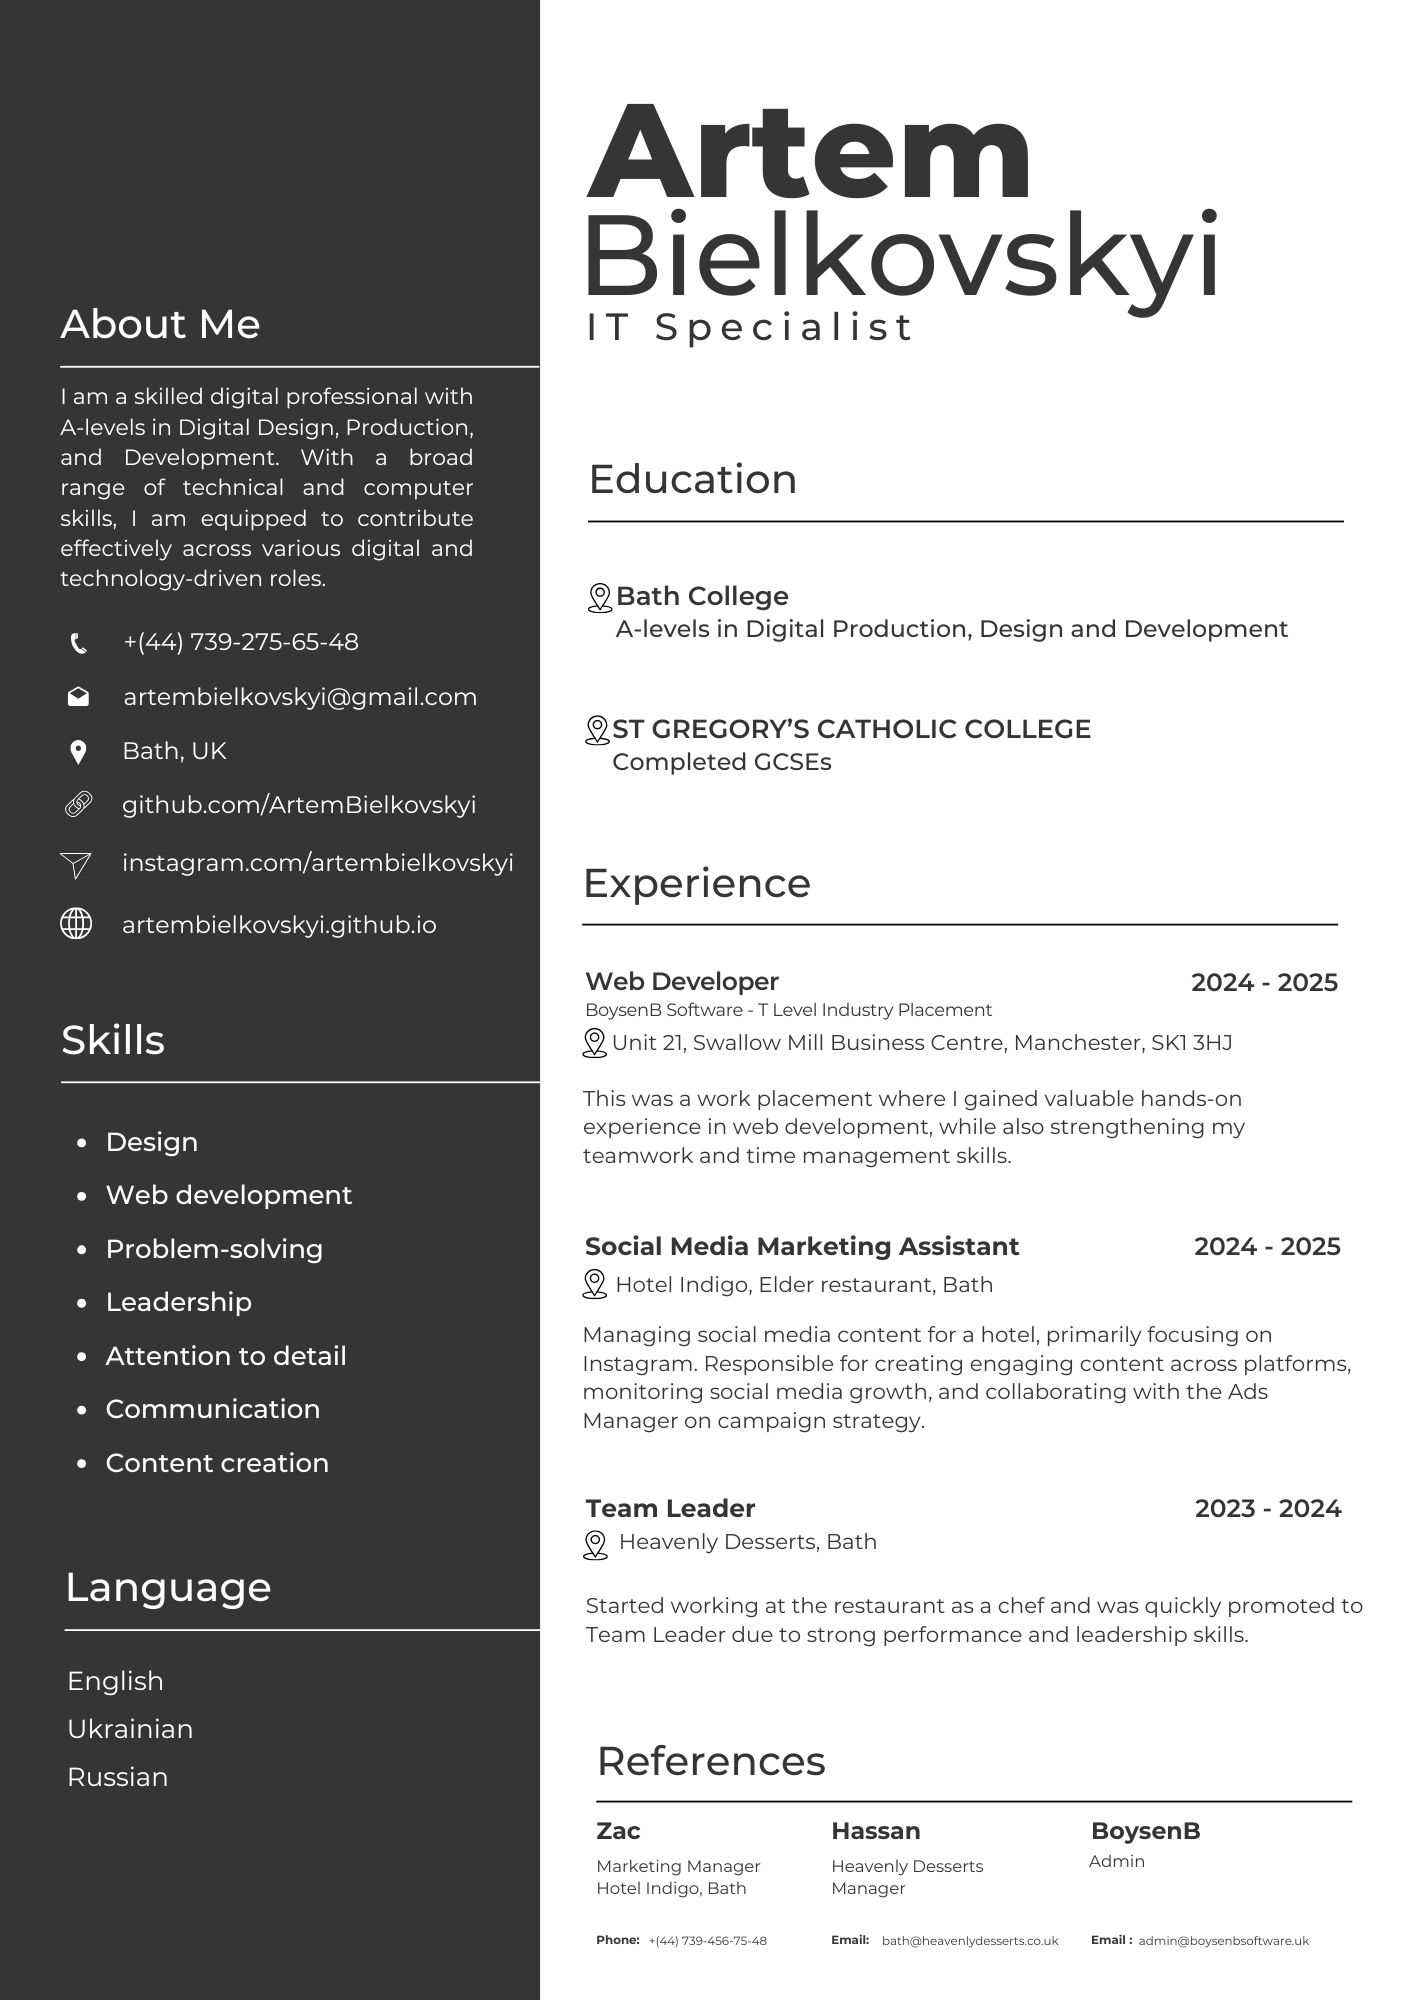
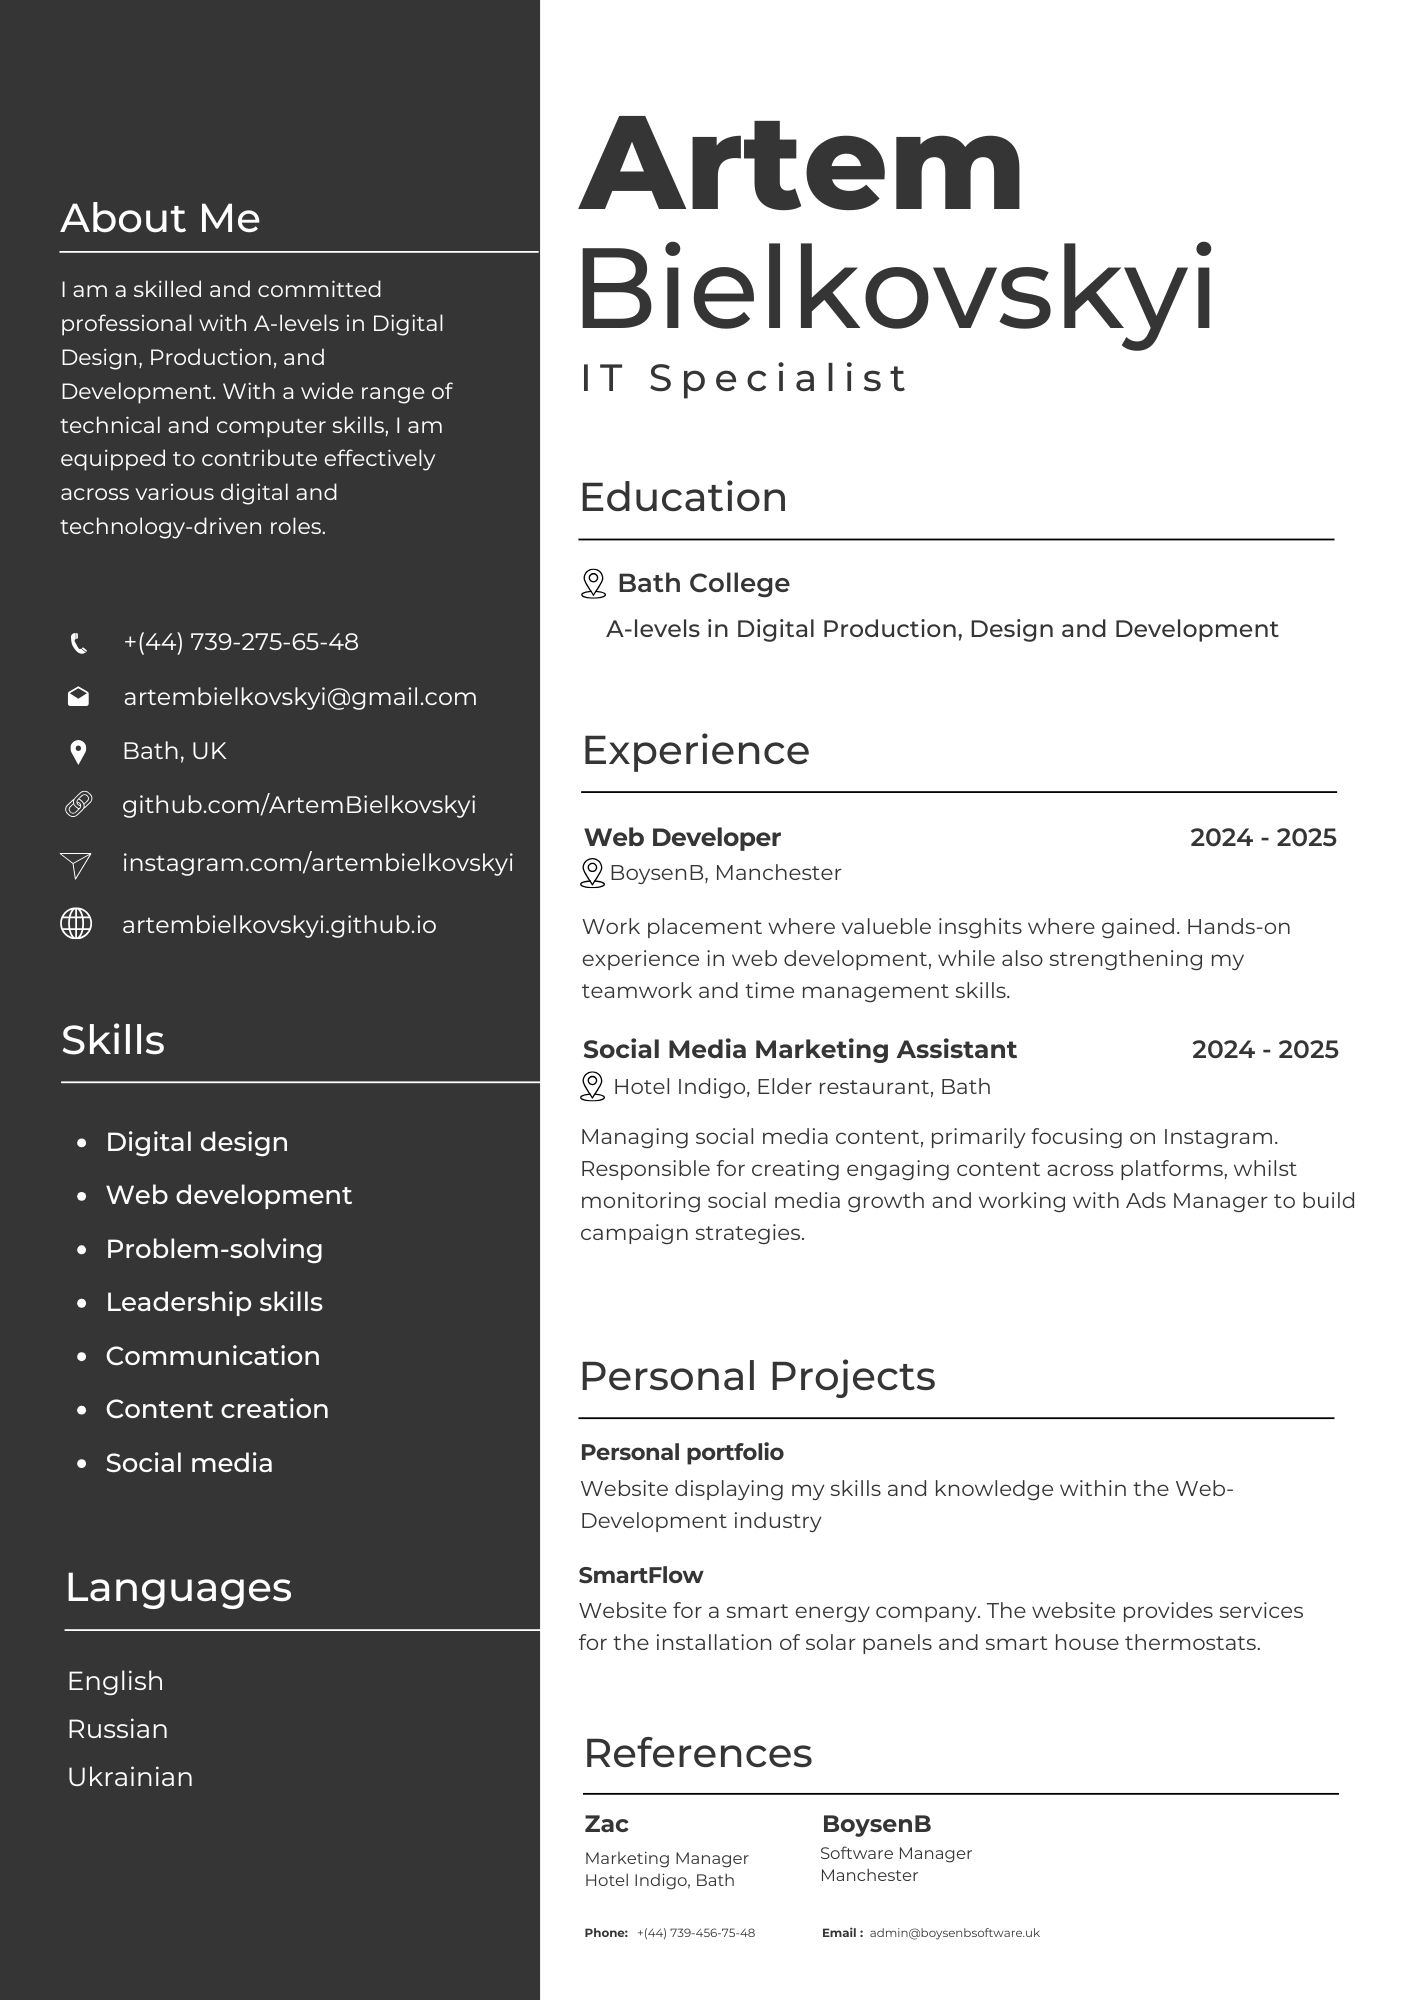
Slight adjustments1.5

diff --git a/index.html b/index.html
@@ -40,12 +40,13 @@
             <div class="section section2" data-anchor="about">
                 <img src="img/me1Blured.png" alt="code" class="AboutMeImage">
                 <h2 class="TextOnSlides AboutMe">About me</h2>
-                <h1 class="AboutMeInfo">I am a skilled digital professional with
-                    A-levels in Digital Design, Production,
-                    and Development. With a broad
-                    range of technical and computer
-                    skills, I am equipped to contribute
-                    effectively across various digital and
+                <h1 class="AboutMeInfo">I am a skilled and committed
+                    professional with A-levels in Digital
+                    Design, Production, and
+                    Development. With a wide range of
+                    technical and computer skills, I am
+                    equipped to contribute effectively
+                    across various digital and
                     technology-driven roles.</h1>
             </div>
             <!-- Lifestyle section -->
@@ -86,15 +87,13 @@
             <!-- Experience/education section -->
             <div class="section section4" data-anchor="Expirience">
                 <h2 class="TextOnSlides EducationTxt" id="Text">Education</h2>
-                <div class="EducationPoints bluredTxt heading"><span>&#8226</span><span>Saint Gregory's Catholic College</span></div>
-                <div class="EducationPoints BathCollege bluredTxt heading"><span>&#8226</span><span>Bath College</span></div>
+                <div class="EducationPoints bluredTxt heading"><span>&#8226</span><span>Bath College</span></div>
+                <div class="EducationPoints BathCollege bluredTxt heading"><span>&#8226</span><span>Saint Gregory's Catholic College</span></div>
                 <h2 class="TextOnSlides ExperienceTxt" id="Text">Experience</h2>
                 <div class="ExperiencePoints bluredTxt heading"><span>&#8226</span><span>Web Developer</span></div>
-                <div class="ExperiencePoints bluredTxt description"><span>Northern Perspective Ltd BoysenB<br/> Software - T Level Industry Placement</span></div>
+                <div class="ExperiencePoints bluredTxt description"><span>BoysenB, Manchester</div>
                 <div class="ExperiencePoints bluredTxt ChefTxt heading"><span>&#8226</span><span>Social Media Marketing Assistant</span></div>
                 <div class="ExperiencePoints bluredTxt description"><span>Indigo Hotel, Bath</span></div>
-                <div class="ExperiencePoints bluredTxt ChefTxt heading"><span>&#8226</span><span>Team Leader</span></div>
-                <div class="ExperiencePoints bluredTxt description"><span>Heavenly Desserts, Bath</span></div>
                 <!-- <div class="ExperiencePoints bluredTxt description"><span> Managing social media content for a hotel, primarily focusing on<br/>
                     Instagram. Responsible for creating engaging content across platforms,<br/>
                     monitoring social media growth, and collaborating with the Ads<br/>
